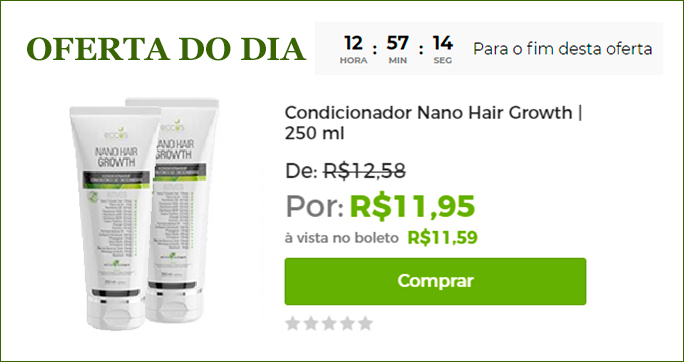
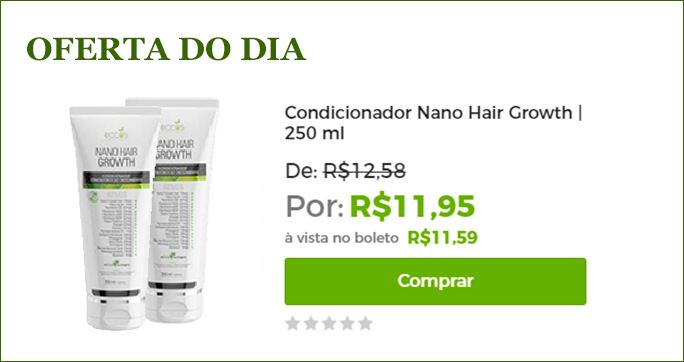
fix: ajustes feitos

Changed region(s): [[0.4912, 0.0912, 0.9518, 0.1823]]

diff --git a/css/one.css b/css/one.css
@@ -1618,9 +1618,6 @@ form.searchautocomplete {
   background: @bg(1);
   color: @color(1);
 }
-.mywish--items .mywish__header .ico {
-  fill: @bg(1);
-}
 /* Meu Carrinho */
 .mycart {
   position: relative;
@@ -10426,19 +10423,10 @@ table .change-product-link:hover {
   .header {
     flex: 1 1 auto;
   }
-  .header-container .loginout {
-    display: none;
-  }
   .header-container .mywish__header a,
   .header-container .mycart__header a,
   .header-container .myaccount__header a {
     box-shadow: none;
-  }
-}
-/* ~768px */
-@media (max-width: 48rem) {
-  .mywish {
-    display: none;
   }
 }
 /* ~568px */
@@ -11973,6 +11961,20 @@ body {
 #banner__banner-duo {
   margin-top: 1.88rem;
 }
+#banner__banner-duo img {
+  width: 100%;
+  height: auto !important;
+  -o-object-fit: cover;
+  object-fit: cover;
+}
+#banner__banner-duo .banner__link {
+  padding: 0.63rem;
+  height: auto !important;
+}
+#banner__banner-duo:not(.banner--nojs) img.d_img {
+  position: static;
+  transform: none;
+}
 #banner__banner-linha {
   margin-top: 1.88rem;
 }
@@ -12054,6 +12056,12 @@ body {
   }
 }
 
+@media (max-width: 992px) {
+  .filters .link {
+    color: var(--primary-contrast);
+  }
+}
+
 .footer,
 .footer .std,
 .footer a {
@@ -12066,12 +12074,26 @@ body {
 .footer .flex .title {
   color: #fff;
 }
+@media (max-width: 568px) {
+  .footer {
+    text-align: center;
+  }
+  .footer .flex {
+    justify-content: center;
+  }
+}
 
 .header-container {
   position: -webkit-sticky;
   position: sticky;
   top: 0;
   background: var(--primary);
+}
+@media (max-width: 568px) {
+  .header .mywish,
+  .header .loginout {
+    margin: 0;
+  }
 }
 
 .instagram__header {
@@ -12122,6 +12144,30 @@ body {
 .loginout a {
   color: var(--primary-contrast);
 }
+@media (max-width: 992px) {
+  .loginout {
+    font-size: 0;
+  }
+  .loginout a:first-child {
+    display: flex;
+    justify-content: center;
+    align-items: center;
+    width: 2.75rem;
+    height: 2.75rem;
+  }
+  .loginout a:first-child:before {
+    content: '\f007';
+    text-transform: none;
+    font-weight: normal;
+    font-style: normal;
+    font-variant: normal;
+    font-family: 'biz_icons';
+    speak: none;
+    -moz-osx-font-smoothing: grayscale;
+    -webkit-font-smoothing: antialiased;
+    font-size: 1.25rem;
+  }
+}
 
 @media (min-width: 993px) {
   .header .logo {
@@ -12154,6 +12200,9 @@ body {
   display: none !important;
 }
 
+.mywish {
+  z-index: 10;
+}
 .mywish__header .ico {
   width: 1.19rem;
   height: 1.19rem;
@@ -12163,6 +12212,12 @@ body {
   background: var(--primary-contrast);
   color: #fff;
   font-weight: 700;
+}
+@media (max-width: 568px) {
+  .mywish__header .qtd {
+    top: 0.31rem;
+    right: 0.31rem;
+  }
 }
 .mywish__content {
   display: none !important;
@@ -12217,6 +12272,68 @@ body {
   }
 }
 
+.timer {
+  display: none;
+  background: none;
+  color: #000;
+}
+.banner .timer {
+  position: absolute;
+  top: 2.5rem;
+  right: 1.25rem;
+  display: flex;
+  margin: 0;
+  padding: 0 0 1.25rem;
+  width: auto;
+  width: 50%;
+  border: 0;
+  background: #f9f9f9;
+}
+.banner .timer:after {
+  padding-top: 0.94rem;
+  padding-left: 0.63rem;
+  content: 'Para o fim desta oferta';
+  font-size: 0.88rem;
+}
+.banner .timer__clock {
+  order: -1;
+}
+.banner .timer .timer__days,
+.banner .timer .timer__hours,
+.banner .timer .timer__minutes,
+.banner .timer .timer__seconds {
+  display: flex;
+  align-items: center;
+  margin: 0;
+  padding: 0;
+  color: #000 !important;
+  font-weight: 700 !important;
+  font-size: 1.38rem;
+}
+.banner .timer .timer__days:after,
+.banner .timer .timer__hours:after,
+.banner .timer .timer__minutes:after,
+.banner .timer .timer__seconds:after {
+  position: static;
+  padding: 0 0.31rem;
+  color: #000 !important;
+  content: ':';
+  font-size: 1.38rem;
+}
+.banner .timer .timer__days .timer__label {
+  padding-top: 0.31rem;
+}
+.banner .timer .timer__seconds:after,
+.banner .timer .timer__afterhours,
+.banner .timer .timer__afterminutes {
+  display: none;
+}
+.banner .timer .timer__label {
+  color: #000;
+  text-transform: uppercase;
+  font-size: 0.69rem;
+}
+
 .top-head {
   display: flex;
   justify-content: center;
@@ -12236,4 +12353,27 @@ body {
   padding: 0.19rem;
   border: dashed 1px var(--primary);
   font-weight: 600;
+}
+
+.whatsapp {
+  position: fixed;
+  bottom: 2.5rem;
+  left: 2.5rem;
+  z-index: 100;
+}
+@media (max-width: 568px) {
+  .whatsapp {
+    bottom: 3.75rem;
+    left: 0.63rem;
+    max-width: 40px;
+  }
+}
+
+
+.prod__name h1 {
+  font-size: 1.5rem;
+}
+.frete__title > span {
+  order: -1;
+  margin-left: 0;
 }

diff --git a/js/one.js b/js/one.js
@@ -1234,7 +1234,7 @@ $j.fn.neonTheme.custom = {
     m_search: true, // ativa o responsivo da Busca
     m_filters: true, // ativa o responsivo dos Filtros do Catálogo
     m_myaccount: true, // ativa o responsivo da Minha Conta
-    m_mycart: true, // ativa o responsivo do Meu Carrinho
+    m_mycart: false, // ativa o responsivo do Meu Carrinho
     m_parcelamento: true, // ativa o responsivo do parcelamento na página de produto
     m_frete: true, // ativa o responsivo do cálculo de frete na página do produto
     m_produto: true, // ativa o responsivo de cada bloco da página de produto
@@ -1342,6 +1342,30 @@ function scrollTop() {
     })
 }
 
+function bannerTemporizadorRender() {
+    var temporizadores = []
+    $j('.banner__item .title').each(function () {
+        if ($j(this).text().indexOf('Temporizador') !== -1) {
+            temporizadores.push($j(this).closest('.banner__item'))
+        }
+    })
+
+    temporizadores.forEach(function (item) {
+        var title = $j(item).find('.title').text()
+        var timers = []
+
+        $j('.timer .title').each(function () {
+            if ($j(this).text().indexOf(title) !== -1) {
+                timers = $j(this).closest('.timer')
+            }
+        })
+
+        $j(timers).each(function () {
+            $j(item).append(this)
+        })
+    })
+}
+
 $j(document)
     .ready(function ($) {
         // document.ready
@@ -1354,6 +1378,8 @@ $j(document)
                 $(event.target).toggleClass('on')
             }
         })
+
+        bannerTemporizadorRender()
     })
     .on('resizeStop', function (e) {
         // Safe window.resize
